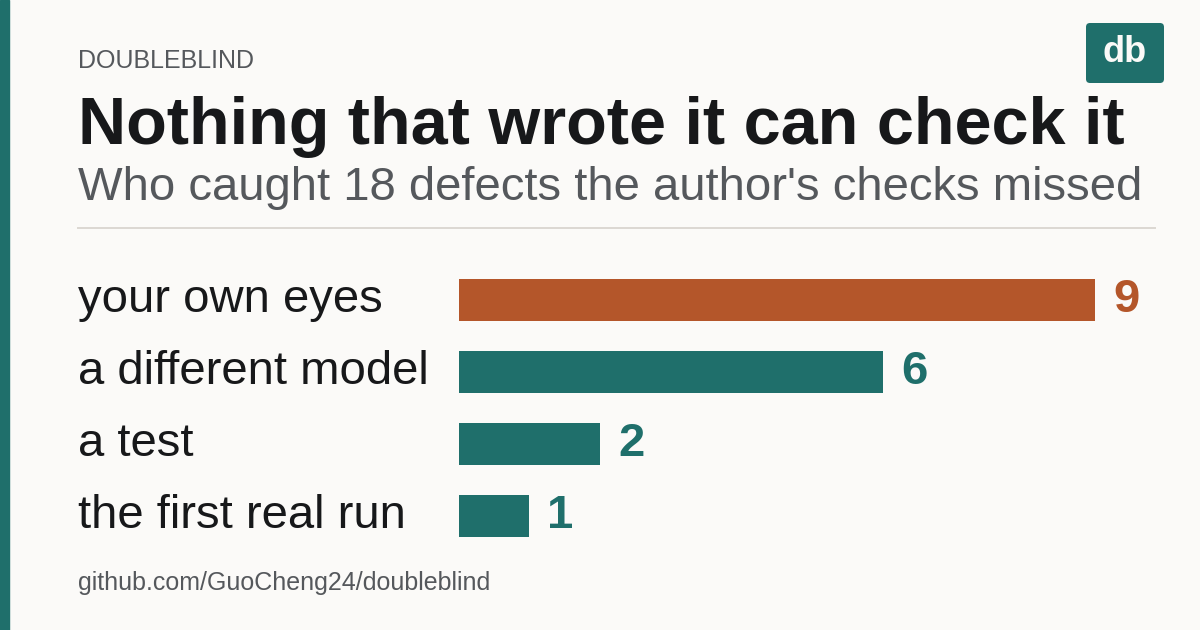
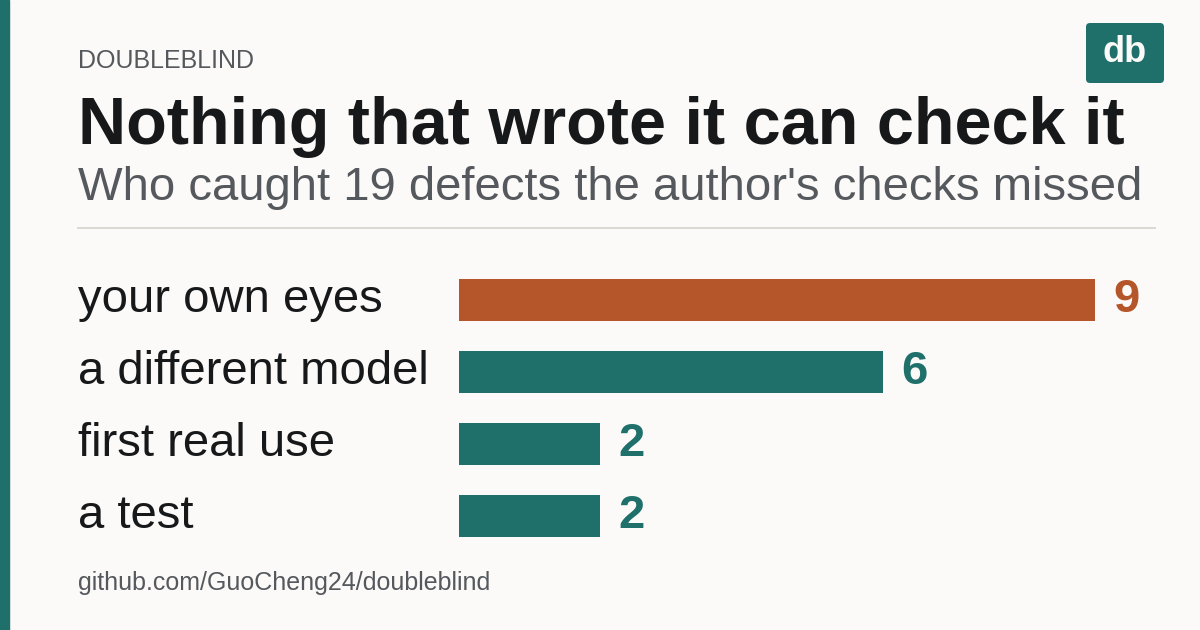
The quickstart only worked from the directory its author was standing in
Installed into a clean virtualenv and run the way the README tells a reader to
run it, from anywhere but the repository root, the shipped derivation script
died on a FileNotFoundError naming a file that reader had never heard of. The
path was relative to the working directory, and every test and every author
stands in the repository root, so it always resolved.

Nothing was wrong with the code as exercised. It was wrong as used, which is a
place no check in here was looking - so it is the nineteenth ledger entry, and
the fifth in this repository.

The example now resolves its data against __file__, and two tests run it from
a temporary directory. The card refuses to draw rather than silently dropping a
catcher it has no label for, which would have left its total disagreeing with
the ledger it is drawn from.

diff --git a/tests/test_doubleblind.py b/tests/test_doubleblind.py
@@ -216,6 +216,36 @@ class Derivations(unittest.TestCase):
         self.assertIn("print(6.25)", vals[0].source)
 
 
+class ShippedExamplesRunFromAnywhere(unittest.TestCase):
+    """The example a reader copies out of the README must not need a cwd.
+
+    Found by installing the package into a clean virtualenv and running the
+    README's own quickstart from an unrelated directory - which is the only way
+    this class of defect shows up, because the repository root is where every
+    test and every author happens to be standing.
+    """
+
+    def test_the_derivation_example_runs_from_another_directory(self):
+        with tempfile.TemporaryDirectory() as elsewhere:
+            proc = subprocess.run([sys.executable, os.path.join(EX, "gain.py")],
+                                  cwd=elsewhere, capture_output=True, text=True)
+            self.assertEqual(proc.returncode, 0, proc.stderr)
+            self.assertIn("gain_points", proc.stdout)
+
+    def test_tracing_the_example_from_another_directory(self):
+        with tempfile.TemporaryDirectory() as elsewhere:
+            proc = subprocess.run(
+                [sys.executable, "-m", "doubleblind", "trace",
+                 os.path.join(EX, "report.md"),
+                 "--data", os.path.join(EX, "results.json"),
+                 "--derive", f'{sys.executable} {os.path.join(EX, "gain.py")}',
+                 "--no-color"],
+                cwd=elsewhere, capture_output=True, text=True,
+                env={**os.environ, "PYTHONPATH": ROOT})
+            self.assertEqual(proc.returncode, 0, proc.stdout + proc.stderr)
+            self.assertIn("0 unsupported", proc.stdout)
+
+
 class Packet(unittest.TestCase):
     def test_packet_contains_the_document_and_the_data_and_the_brief(self):
         text = build_packet([os.path.join(EX, "report.md")],

diff --git a/docs/social_card.py b/docs/social_card.py
@@ -23,14 +23,27 @@ ROOT = pathlib.Path(__file__).resolve().parent.parent
 with open(ROOT / "ledger" / "findings.json", encoding="utf-8") as fh:
     FINDINGS = json.load(fh)["findings"]
 
+# Short labels for the card. Two different kinds of first real use - running it
+# on a real repository, and installing it into a clean virtualenv and following
+# the README from elsewhere - are one bar, because on a card they are one idea.
 LABEL = {
     "human eye": "your own eyes",
     "zero-context reviewer": "a different model",
     "test": "a test",
-    "running it on a real repository": "the first real run",
+    "running it on a real repository": "first real use",
+    "installing it into a clean virtualenv and following the README from elsewhere":
+        "first real use",
 }
 COUNTS = collections.Counter(f["caught_by"] for f in FINDINGS)
-ROWS = sorted(((LABEL[k], n) for k, n in COUNTS.items()), key=lambda r: -r[1])
+missing = sorted(set(COUNTS) - set(LABEL))
+if missing:
+    # A new catcher must be given a label rather than silently dropped from the
+    # chart, which would leave the card's total disagreeing with the ledger's.
+    raise SystemExit(f"ledger has catchers with no card label: {missing}")
+merged = collections.Counter()
+for k, n in COUNTS.items():
+    merged[LABEL[k]] += n
+ROWS = sorted(merged.items(), key=lambda r: -r[1])
 TOTAL = sum(n for _, n in ROWS)
 
 ACCENT = "#1f6f6b"

diff --git a/examples/gain.py b/examples/gain.py
@@ -7,8 +7,14 @@ this line and get the same numbers, which an entry in an allow list would not
 give them.
 """
 import json
+import os
 
-with open("examples/results.json") as fh:
+# Resolved against this file, not the working directory. A derivation is a
+# command a reader copies out of the README and runs from wherever they happen
+# to be; one that only works from the repository root is a trap, and the error
+# it produces names the wrong thing.
+HERE = os.path.dirname(os.path.abspath(__file__))
+with open(os.path.join(HERE, "results.json")) as fh:
     r = json.load(fh)
 gain = (r["treatment"]["accuracy"] - r["baseline"]["accuracy"]) * 100
 print(f"gain_points {gain:.2f}")

diff --git a/ledger/README.md b/ledger/README.md
@@ -170,7 +170,7 @@ A page describing an upstream pull request as open after it had been closed.
 - **Caught by:** human eye
 - **Check now:** the status written in prose after each link is parsed and compared with the live state
 
-## tooling  (4)
+## tooling  (5)
 
 ### `vendored-drift`
 
@@ -215,6 +215,17 @@ The allow list was a flat list of numbers with reasons, read from the repository
 - **Why it could not see it:** Nothing was wrong with either file. The exemption was correct for the document it was written for and silently correct for every other document too, and a check that stops failing looks exactly like a check that has nothing to report.
 - **Caught by:** test
 - **Check now:** every allow entry names the document it applies to, and a test asserts that an exemption for one document does not cover another
+
+### `example-needs-a-working-directory`
+
+*this repository's quickstart*
+
+The derivation script the README tells readers to run opened its data file by a path relative to the working directory. Copied out of the README and run from anywhere but the repository root, it failed with a FileNotFoundError naming a file the reader had never heard of.
+
+- **Missed by:** both automated layers
+- **Why it could not see it:** Every test and every author stands in the repository root, so the path always resolved. Nothing was wrong with the code as exercised; it was wrong only as used.
+- **Caught by:** installing it into a clean virtualenv and following the README from elsewhere
+- **Check now:** the example resolves its data against __file__, and two tests run it from a temporary directory
 
 ---
 

diff --git a/README.md b/README.md
@@ -166,9 +166,11 @@ them and be called traced. `trace` says so when the pool gets large. Point
 
 [`ledger/`](ledger/) records real defects that shipped, each with the layer that
 missed it and why that layer could not have seen it. It is the part of this
-repository that cannot be regenerated, and it includes 4 defects in
+repository that cannot be regenerated, and it includes 5 defects in
 `doubleblind` itself - one of which disarmed a CI step for every document in
-the repository at once.
+the repository at once, and one of which only appeared when the package was
+installed into a clean virtualenv and the README's own quickstart was followed
+from somewhere else.
 
 The pattern is consistent enough to plan around. On a document that had already
 passed 37 mechanical checks and two rounds of its author's own review, a
@@ -184,7 +186,7 @@ had credited 5 of them from a half-written trace. Counted as no-answer instead,
 three of four confidence intervals stopped containing the number being
 reproduced. The page's verdict turned on it and the page did not mention it.
 
-And the honest part: of 18 recorded defects, **9 were caught by a person
+And the honest part: of 19 recorded defects, **9 were caught by a person
 looking at the rendered artifact** — 6 of those 9 rendering defects that no
 amount of number-checking would ever have reached. The most recent is this
 repository's own social card, which passed its own legibility, contrast and
